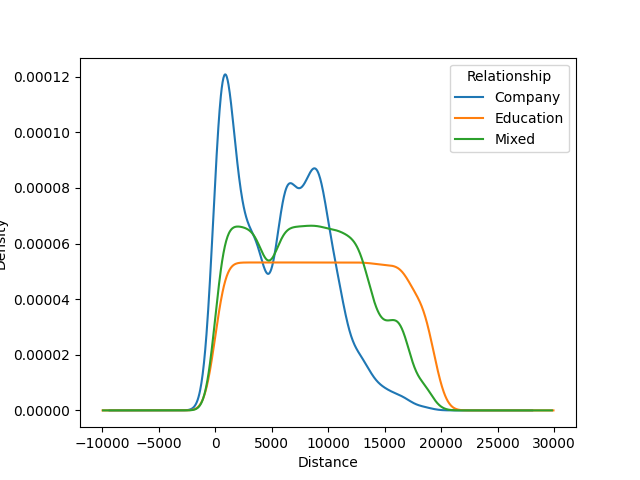
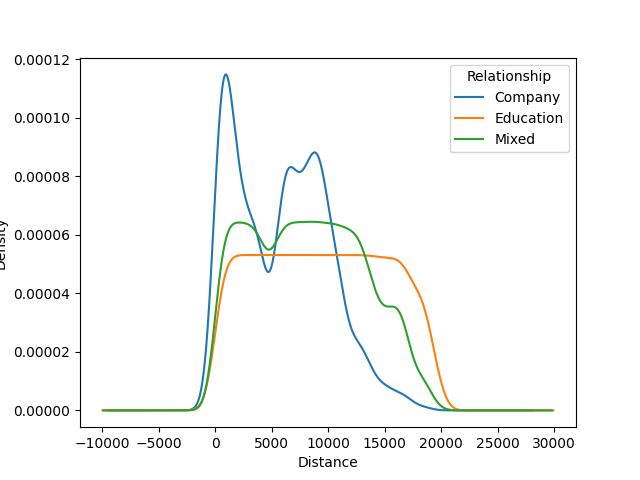
changes

diff --git a/cs_analysis.py b/cs_analysis.py
@@ -1,16 +1,16 @@
 from ast import literal_eval
+from collections import Counter
 import statistics
-import matplotlib.pyplot as plt
 import pandas as pd
-import pandas as pd
-import matplotlib.pyplot as plt
 import warnings
 import numpy as np
 import scipy.stats as stats
-import pandas as pd 
+from scipy.cluster.hierarchy import dendrogram, linkage
+from scipy.spatial.distance import pdist, squareform
 import seaborn as sns
 from geopy.distance import geodesic as GD
 import matplotlib.pyplot as plt
+import scipy.cluster.hierarchy as sch
 from sklearn.cluster import KMeans
 from tqdm import tqdm
 
@@ -25,9 +25,9 @@ dev_df = pd.read_csv("human_dev_standard.csv")
 df = pd.read_csv("cs_mean.csv")
 
 ## GENERAL ANALYSIS
-"""
-#region general_analysis
 
+#region general_analysis
+"""
 # Descriptive statistics
 print("Describe")
 print(df[["type","distance"]].groupby("type").describe())
@@ -61,6 +61,10 @@ plt.show()
 
 # Test distance by year
 means = df.groupby(['year', 'type'])['distance'].mean().reset_index(name="mean")
+sns.lineplot(data=means, x="year", y="mean", hue="type")
+plt.show()
+# Test distance by year
+means = df.groupby(['year', 'type'])['citations'].mean().reset_index(name="mean")
 sns.lineplot(data=means, x="year", y="mean", hue="type")
 plt.show()
 
@@ -111,8 +115,16 @@ mixed_df = df[(df['type'] == "mixed")]
 sns.lmplot(
     x="distance",
     y="citations",
-    hue="international",
     data=mixed_df,
+    scatter=False,
+)
+plt.show()
+
+sns.lmplot(
+    x="distance",
+    y="citations",
+    hue="type",
+    data=df,
     scatter=False,
 )
 plt.show()
@@ -121,16 +133,15 @@ top_df_m = df[(df['type'] == "mixed")].sort_values(by=['citations'], ascending=F
 top_df_c = df[(df['type'] == "company")].sort_values(by=['citations'], ascending=False).head(1000)
 top_df_e = df[(df['type'] == "education")].sort_values(by=['citations'], ascending=False).head(1000)
 cs_df = pd.concat([top_df_m, top_df_e, top_df_c])
-print(cs_df[["type","citations", "international", "distance"]].groupby(["type", "international"]).describe())
-
-#endregion
+print(cs_df[["type","citations", "international"]].groupby(["type", "international"]).describe())
 """
+#endregion
 
 ## CONTINENT ANALYSIS
-"""
-#region continent
 
-df = df[df["type"] == "company"]
+#region continent
+"""
+df = df[df["type"] == "education"]
 new_df = pd.DataFrame({"continent": [], "collaboration": [], "number": int})
 collabs = {"NA": [], "EU": [], "AS": [], "OC": [], "SA": [], "AF": []}
 for index, work in df.iterrows():
@@ -162,20 +173,20 @@ new_df.groupby(["continent", "collaboration"]).sum().unstack().plot.pie(
     layout=(-1, 3),
 )
 plt.show()
-
-#endregion
 """
+#endregion
+
 
 ## DEVELOPMENT ANALYSIS
-"""
-#region development
 
+#region development
+"""
 df = df[df["international"] == True]
 #df = df[df["no_dev"] == True]
 unique_majors = df["type"].unique()
 df["dist_trunc"] = round(df["distance"], 0)
 for major in unique_majors:
-   print(major + " "+  str(stats.pearsonr(df[df['type'] == major]['mean_index'], df[df['type'] == major]['distance'])))
+   print(major + " "+  str(stats.spearmanr(df[df['type'] == major]['mean_index'], df[df['type'] == major]['distance'])))
 print("------------")
 for major in unique_majors:
    print(major + " "+  str(stats.spearmanr(df[df['type'] == major]['mean_index'], df[df['type'] == major]['citations'])))
@@ -273,15 +284,33 @@ top_df_dev = df[(df['no_dev'] == False)].sort_values(by=['citations'], ascending
 cs_df = pd.concat([top_df_no_dev, top_df_dev])
 print(cs_df[["type","citations", "no_dev", "distance"]].groupby(["type", "no_dev"]).describe())
 
-#endregion
+no_dev_df = df[["citations", "no_dev", "distance", "international"]]
+print(no_dev_df[["no_dev","citations", "international"]].groupby(["no_dev", "international"]).describe())
+no_dev_df.groupby(["no_dev", "international"])['citations'].count().unstack().plot.pie(
+    subplots=True,
+    autopct="%1.1f%%",
+    legend=False,
+    startangle=90,
+    figsize=(10, 7),
+)
+plt.show()
+no_dev_df.groupby(["no_dev", "international"])['citations'].sum().unstack().plot.pie(
+    subplots=True,
+    autopct="%1.1f%%",
+    legend=False,
+    startangle=90,
+    figsize=(10, 7),
+)
+plt.show()
 """
+#endregion
 
 ## SCOPE ANALYSIS
-"""
+
 #region scope
 
 #Descriptive statistics
-
+"""
 def f(row):
     if row['ratio'] == 0.5:
         val = "half"
@@ -315,7 +344,7 @@ plt.show()
 df.groupby(['ratio_type'])['citations'].mean().plot(kind='bar')
 plt.show()
 
-df.groupby(["ratio_type"])['citations'].mean().plot.pie(
+df.groupby(["ratio_type"])['citations'].count().plot.pie(
     subplots=True,
     autopct="%1.1f%%",
     legend=False,
@@ -323,6 +352,65 @@ df.groupby(["ratio_type"])['citations'].mean().plot.pie(
     figsize=(10, 7),
 )
 plt.show()
-
-#endregion
+df.groupby(["ratio_type"])['citations'].sum().plot.pie(
+    subplots=True,
+    autopct="%1.1f%%",
+    legend=False,
+    startangle=90,
+    figsize=(10, 7),
+)
+plt.show()
 """
+#endregion
+
+
+## TOPIC ANALYSIS
+"""hm_df = pd.DataFrame(
+    {
+        "work": str,
+        "continent": [],
+        "concept": [],
+        "year":int,
+        "no_dev":bool,
+    }
+)
+continent_concept_list = []
+for row in tqdm(df.itertuples()):
+    locations = literal_eval(row.location)
+    continents = []
+    for continent in locations:
+        continents.append(continent["continent"])
+    for continent in set(continents):
+        continent = "NAA" if continent == "NA" else continent
+        concepts = literal_eval(row.concepts)
+        for concept in concepts:
+            continent_concept_list.append([row.work, continent, concept, row.year, row.no_dev, row.type])
+hm_df = pd.DataFrame(continent_concept_list, columns = ['work','continent', 'concept', 'year', 'no_dev', 'type'])
+hm_df.to_csv("test_concepts.csv")
+hm_df_full = pd.read_csv("test_concepts.csv")
+test = hm_df_full.groupby("concept")["work"].count().reset_index(name="count").sort_values(by=['count'], ascending=False).head(11)
+test.drop(test[test['concept'] == "Computer science"].index, inplace = True)
+new_df = hm_df_full.loc[hm_df_full['concept'].isin(test.concept.to_list())]
+means = new_df.groupby(['no_dev', 'concept', 'year', 'type'])["work"].count().reset_index(name="count")
+means = means[(means["no_dev"]==True)& (means["type"]=="mixed")]
+sns.lineplot(data=means, x="year", y="count", hue="concept")
+plt.show()
+test = hm_df_full.groupby("concept")["work"].count().reset_index(name="count").sort_values(by=['count'], ascending=False).head(11)
+test.drop(test[test['concept'] == "Computer science"].index, inplace = True)
+new_df = hm_df_full.loc[hm_df_full['concept'].isin(test.concept.to_list())]
+means = new_df.groupby(['no_dev', 'concept', 'year', 'type'])["work"].count().reset_index(name="count")
+means = means[(means["no_dev"]==False) & (means["type"]=="mixed")]
+sns.lineplot(data=means, x="year", y="count", hue="concept")
+plt.show()"""
+
+hm_df_full = pd.read_csv("test_concepts.csv")
+test = hm_df_full.groupby("concept")["work"].count().reset_index(name="count").sort_values(by=['count'], ascending=False).head(11)
+test.drop(test[test['concept'] == "Computer science"].index, inplace = True)
+new_df = hm_df_full.loc[hm_df_full['concept'].isin(test.concept.to_list())]
+means_full = new_df.groupby(['no_dev', 'concept', 'year'])["work"].count().reset_index(name="count")
+means = means_full[(means_full["no_dev"]==True)] #& (means["type"]=="mixed")
+sns.lineplot(data=means, x="year", y="count", hue="concept")
+plt.show()
+means = means_full[(means_full["no_dev"]==False)] #& (means["type"]=="mixed")
+sns.lineplot(data=means, x="year", y="count", hue="concept")
+plt.show()

diff --git a/cs_scrapper.py b/cs_scrapper.py
@@ -41,7 +41,7 @@ async def get_work(work, session):
             for institutions in authorships["institutions"]:
                 if institutions["ror"]:
                     async with session.get(
-                        "http://10.0.0.121:9292/organizations/"
+                        "http://localhost:9292/organizations/"
                         + institutions["ror"].rsplit("/", 1)[1]
                     ) as resp:
                         req = await resp.json()
@@ -80,7 +80,7 @@ async def get_work(work, session):
             for institutions in authorships["institutions"]:
                 if institutions["ror"]:
                     async with session.get(
-                        "http://10.0.0.121:9292/organizations/"
+                        "http://localhost:9292/organizations/"
                         + institutions["ror"].rsplit("/", 1)[1]
                     ) as resp:
                         req = await resp.json()
@@ -119,7 +119,7 @@ async def get_work(work, session):
             for institutions in authorships["institutions"]:
                 if institutions["ror"]:
                     async with session.get(
-                        "http://10.0.0.121:9292/organizations/"
+                        "http://localhost:9292/organizations/"
                         + institutions["ror"].rsplit("/", 1)[1]
                     ) as resp:
                         req = await resp.json()
@@ -170,7 +170,7 @@ async def get_work(work, session):
             ),
             ignore_index=True,
         )
-    df.to_csv("cs_all.csv", mode="a", index=False, header=False)
+    df.to_csv("cs_0.csv", mode="a", index=False, header=False)
 
 
 async def get_page(page, session):
@@ -197,7 +197,7 @@ async def main():
             "distance": []
         }
     )
-    #header.to_csv("cs_all.csv")
+    #header.to_csv("cs_0.csv")
     pagecon = 0
     async with aiohttp.ClientSession(
         connector=aiohttp.TCPConnector(ssl=False)

diff --git a/processors.py b/processors.py
@@ -8,27 +8,30 @@ from tqdm import tqdm
 
 warnings.simplefilter(action="ignore", category=FutureWarning)
 
-# Merge csvs
-"""df_all = pd.read_csv("cs_all.csv")
+"""# Merge csvs
+df_all = pd.read_csv("cs_all.csv")
 df_all = df_all.drop_duplicates()
 df_all = df_all[df_all['distance'] > 0]
 df_all = df_all[df_all['year'] > 1989]
 df_all = df_all[df_all['year'] < 2022]
-df_all = df_all[df_all['citations'] > 0]
 df_15 = pd.read_csv("cs_15.csv")
 df_15 = df_15.drop_duplicates()
 df_15 = df_15[df_15['distance'] > 0]
 df_15 = df_15[df_15['year'] > 1989]
 df_15 = df_15[df_15['year'] < 2022]
-df_15 = df_15[df_15['citations'] > 0]
+df_0 = pd.read_csv("cs_0.csv")
+df_0 = df_0.drop_duplicates()
+df_0 = df_0[df_0['distance'] > 0]
+df_0 = df_0[df_0['year'] > 1989]
+df_0 = df_0[df_0['year'] < 2022]
 
-cs_df = pd.concat([df_all, df_15])
+cs_df = pd.concat([df_all, df_15,df_0])
 cs_df.reset_index(drop=True)
 cs_df.drop_duplicates()
 
-cs_df.to_csv("cs.csv")"""
+cs_df.to_csv("cs.csv")
 
-"""# Setup Data with continent and scope
+# Setup Data with continent and scope
 df = pd.read_csv("cs.csv")
 dev_df = pd.read_csv("human_dev_standard.csv")
 df['no_dev'] = False
@@ -75,11 +78,11 @@ for row in tqdm(df.itertuples()):
     df._set_value(row.Index,'ratio', company/(education+company))
     df._set_value(row.Index,'location',new_loc)
 df.reset_index(drop=True)
-df.to_csv("cs_data.csv")"""
+df.to_csv("cs_data.csv")
 
-"""df = pd.read_csv("cs_data.csv")
+df = pd.read_csv("cs_data.csv")
 df = df.drop_duplicates("work")
-df.to_csv("cs.csv")"""
+df.to_csv("cs.csv")
 
 df = pd.read_csv("cs.csv")
 
@@ -98,4 +101,8 @@ for row in tqdm(df.itertuples()):
     df._set_value(row.Index,'mean_distance',statistics.mean(distances_total))
 
 df = df[df['mean_index'].notna()]
+df.to_csv("cs_mean.csv")"""
+
+df = pd.read_csv("cs_mean.csv")
+df['citations'] = df['citations'].fillna(0)
 df.to_csv("cs_mean.csv")
